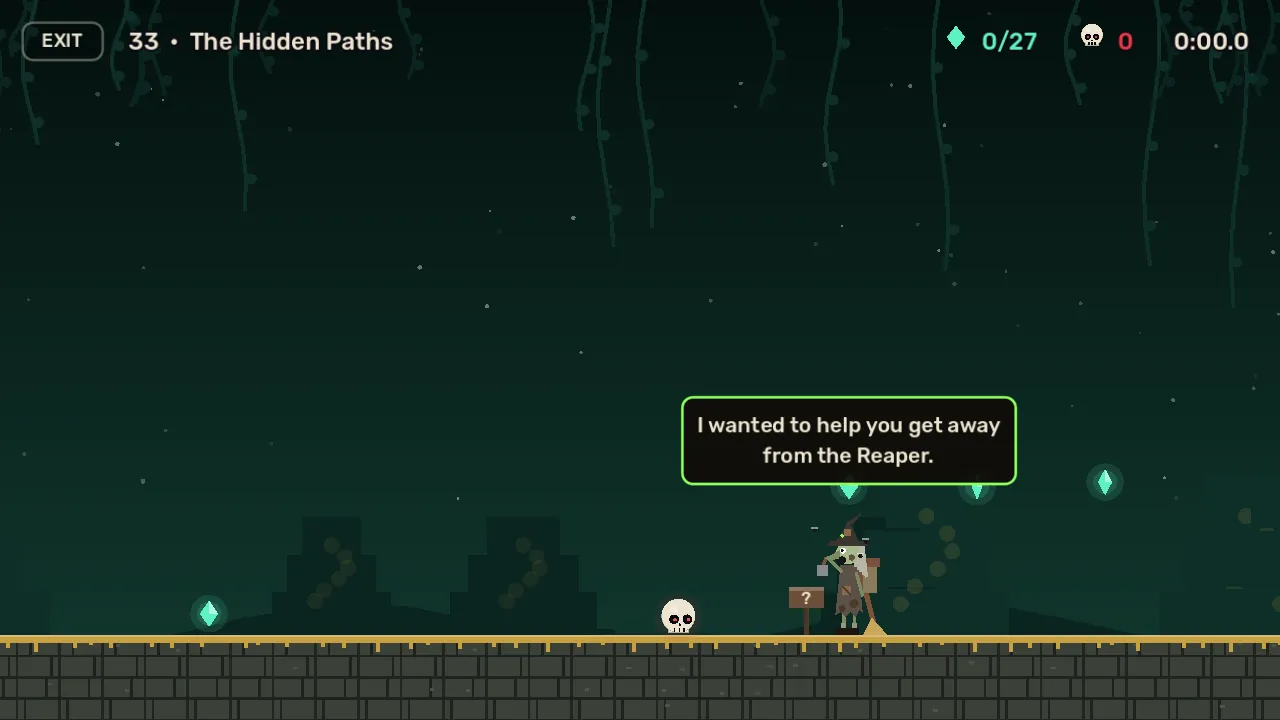
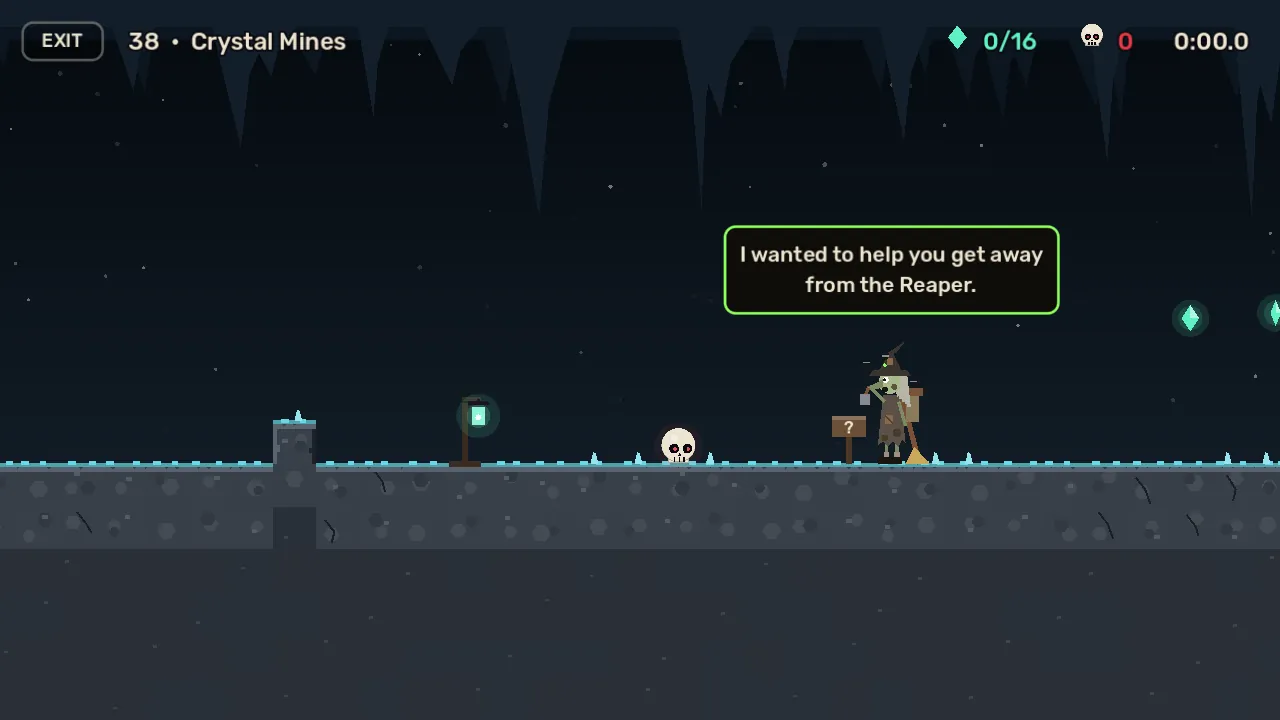
Move Griselda to the end of level 38
Griselda now hammers in her last sign at the end of level 38 instead of
level 33, so the hint signs carry on through levels 34-38:
- Levels 33-35 are back to how they were (signs back, no Griselda)
- Levels 36-38 get hint signs for the stalactites, trolls and the rest,
  kept away from spots where a reader could set off a falling rock
- Level 39's banner now says the signs have stopped
- Website screenshot, README, level guide and CLAUDE.md updated

Claude-Session: https://claude.ai/code/session_01QMA259kJY5isNXoSpeKVx7

diff --git a/website/index.html b/website/index.html
@@ -77,7 +77,7 @@
     <button class="shot" data-full="img/serpent.webp"><img src="img/serpent.webp" alt="Evil snakes up high and down low" loading="lazy"><span>Viper Falls</span></button>
     <button class="shot" data-full="img/fakewall.webp"><img src="img/fakewall.webp" alt="The skull inside a wall that isn't really there" loading="lazy"><span>Serpent Hollow</span></button>
     <button class="shot" data-full="img/olives.webp"><img src="img/olives.webp" alt="A cave made of olives, with little olives waddling about" loading="lazy"><span>Snakes Cave?</span></button>
-    <button class="shot" data-full="img/griselda.webp"><img src="img/griselda.webp" alt="The skull catching Griselda the witch putting up a sign" loading="lazy"><span>The Hidden Paths</span></button>
+    <button class="shot" data-full="img/griselda.webp"><img src="img/griselda.webp" alt="The skull catching Griselda the witch putting up a sign" loading="lazy"><span>Griselda's Last Sign</span></button>
     <button class="shot" data-full="img/caverns.webp"><img src="img/caverns.webp" alt="Stalactites falling from a cave ceiling" loading="lazy"><span>Dripping Caverns</span></button>
     <button class="shot" data-full="img/trolls.webp"><img src="img/trolls.webp" alt="A cave troll thumping the ground with his club" loading="lazy"><span>Troll Tunnels</span></button>
     <button class="shot" data-full="img/mines.webp"><img src="img/mines.webp" alt="Bats over a crumbling bridge in the crystal mines" loading="lazy"><span>Crystal Mines</span></button>

diff --git a/README.md b/README.md
@@ -83,12 +83,12 @@ menu (it asks first).
 | 30 | Alethea's Big Top | **Boss**: Alethea the Happy Clown. Stomp her only when she's dizzy, 5 times. At 3 she goes crazy! |
 | 31 | Serpent Hollow | **Evil snakes**: they rear up and hiss, then lunge. **Fake walls**: some walls (and floors) aren't really there |
 | 32 | Snakes Cave | A surprise! (No hint signs on purpose. Hint: it isn't snakes, it's olives) |
-| 33 | The Hidden Paths | Fake ceilings, fake floors, secret tunnels, snakes hiding inside walls, a cannon through a fake ceiling. At the end you catch **Griselda**, the scruffy witch who's been putting up all the signs. She's too scared to go deeper into the Reaper's lands, so from here on there are **no more signs** |
+| 33 | The Hidden Paths | Fake ceilings, fake floors, secret tunnels, snakes hiding inside walls, a cannon through a fake ceiling. |
 | 34 | Viper Falls | Snakes with fire jets, rising platforms, a guard, a cannon and hidden magma |
 | 35 | The Serpent Temple | Everything together: portals, a witch, cannons, guards, a hidden tunnel over the fire hall, and lots of snakes |
 | 36 | Dripping Caverns | **Falling stalactites**: rocks shake, then drop when you pass under. Don't stop! |
 | 37 | Troll Tunnels | **Cave trolls**: too big to squish. Bounce on their heads to fly high, or get them to thump under a stalactite |
-| 38 | Crystal Mines | Trolls and rocks with slams, a wall-jump shaft, a portal and bats over a crumbling bridge |
+| 38 | Crystal Mines | Trolls and rocks with slams, a wall-jump shaft, a portal and bats over a crumbling bridge. At the end you catch **Griselda**, the scruffy witch who's been putting up all the signs. She's too scared to go deeper into the Reaper's lands, so from here on there are **no more signs** |
 | 39 | The Rumbling Deep | Everything together: snakes, rising platforms over magma, a cannon, fire jets, a guard, and a witch to bounce off |
 | 40 | Jett's Hollow | **Boss**: first **the Reaper himself** (you can't hurt him: survive 30 seconds!), then he throws you far away to **Jett the Scarecrow**. Stomp Jett when his pole gets stuck, 5 times. At 3 he goes crazy! |
 
@@ -97,7 +97,7 @@ Reaper's army taking over the world, and a skull waking up in a sealed tomb).
 Skip it with Space or Esc, or watch it again with the **STORY** button.
 
 Each level should take about 2–4 minutes the first time through, and each has
-checkpoints and optional soul gems. Levels 1–33 also have hint signs (until you catch
+checkpoints and optional soul gems. Levels 1–38 also have hint signs (until you catch
 Griselda putting them up); after that, each level's opening banner gives the hint. Your progress and best times are saved.
 The level timer starts when you first move, and right after a respawn you blink
 for a moment while enemies can't hurt you.

diff --git a/levels/README.md b/levels/README.md
@@ -79,8 +79,8 @@ that their bottoms line up.
 | `!`  | falling stalactite: put it in the cell right under a ceiling. When the skull passes under it, it shakes for half a second and drops (deadly while falling), smashes on the ground, and grows back 3 seconds later. Running under is safe, stopping isn't, so keep them away from spots where players must wait (flame jets, moving platforms, guards) and from checkpoints |
 | `r`  | the Reaper's own fight (level 40). Put him on the floor of an arena with a wall at each end and plenty of room above (he flings the skull up and away). He can't be hurt: survive 30 seconds and he throws the skull to the boss of the level, landing high over the left side of the boss's arena. So use him together with `O`, and make his arena's walls too tall to climb back out |
 | `O`  | Jett the Scarecrow boss (one boss per level). Put him on the floor of an arena with a wall at each end, at least 30 tiles wide, with the ceiling about 11 tiles up (he leaps high, and when he's crazy rocks fall from that ceiling). He throws a sickle that comes back high, summons witches, hops at you and leaps to plunge his pole into the ground; it gets stuck, and that's the only time a stomp hurts him. 5 hits, and at 3 he goes crazy. The exit `E` stays hidden until he's defeated |
-| `&`  | Griselda, the witch who puts up the hint signs (level 33). Put her just right of a sign. When the skull comes close she tells her story (the skull waits, JUMP skips a line) and flies off |
-| `1`–`9` | hint sign that shows the matching `signN:` text. (Since Griselda left in level 33 there are no more signs after it, so later levels teach with their `banner:` instead) |
+| `&`  | Griselda, the witch who puts up the hint signs (end of level 38). Put her just right of a sign. When the skull comes close she tells her story (the skull waits, JUMP skips a line) and flies off |
+| `1`–`9` | hint sign that shows the matching `signN:` text. (Since Griselda left at the end of level 38 there are no more signs after it, so later levels teach with their `banner:` instead) |
 
 Put things that stand on the ground (`P`, `E`, `C`, `S`, `J`, signs) in the row
 directly above a `#`. Lava `~` usually goes in the top ground row, with `#` underneath it.

diff --git a/CLAUDE.md b/CLAUDE.md
@@ -31,9 +31,10 @@ The owner wants the website to grow with the game, with no empty placeholder slo
   1280×720 in-game capture with the HUD). The gallery is 3 wide: add shots in threes.
 - Also update the level table in `README.md`, and hint signs that name keys should
   mention the touch controls too ("SPACE (or the jump button)").
-- **No hint signs after level 33.** The story: Griselda (`&`, the witch who puts up the signs) is
-  caught in level 33 and is too scared to go deeper into the Reaper's lands. Later levels teach
-  new things with their `banner:` line instead. Don't add signs to levels 34+.
+- **No hint signs after level 38.** The story: Griselda (`&`, the witch who puts up the signs) is
+  caught hammering in her last sign at the end of level 38 and is too scared to go deeper into
+  the Reaper's lands. Later levels teach new things with their `banner:` line instead. Don't add
+  signs to levels 39+.
 - The Reaper's line "I will let <boss> deal with you" belongs to the chase (`Y`/`Z`). Don't reuse
   it elsewhere (level 40's Reaper fight has its own lines).
 
